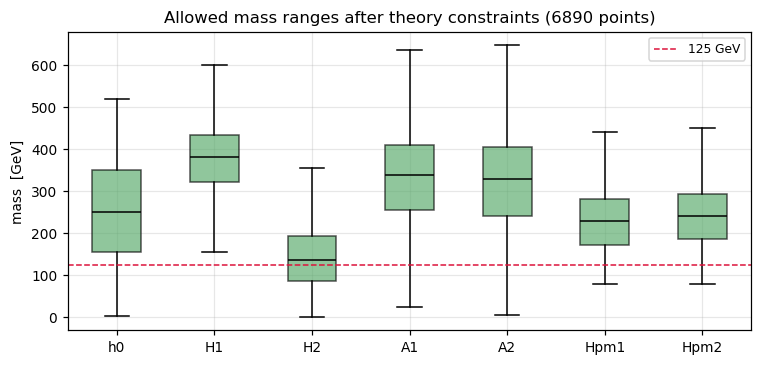
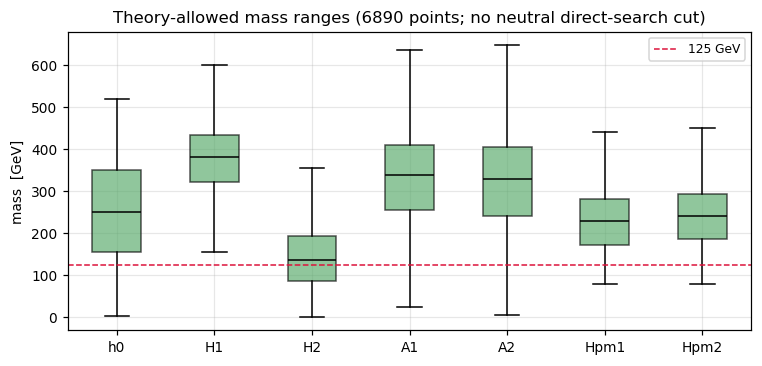
Close four review findings in the scalar-sector notebook
A review of 01_scalar_parameter_space.ipynb. The physics core is sound -- the
alignment, the homogeneity argument, the V4 decomposition and its Z3 covariant,
the typeset-vs-code unitarity eigenvalues, the closed-form BFB condition against
brute force, and the benchmark diagonalizations all reproduce. No number in the
analysis moves. What follows is presentation, provenance, and one missing
bookkeeping row.

1. Light neutral scalars were unconstrained, and the asymmetry ran backwards
   from what the physics allows. The scan cuts charged scalars at 80 GeV and
   applies nothing to the neutral ones, so the theory-allowed set reaches down
   to 1.6 GeV -- with a 39.8 GeV h0 and a 33.3 GeV H2 among the twelve saved
   benchmarks. A light h0 is genuinely safe: it is the geometric-basis state
   D_S[1,1] and notebook 03 proves g(h0 VV) = 0 exactly for any delta, so LEP's
   Z -> Zh search does not reach it. A light H1/H2 is not -- those carry
   cos(delta) and sin(delta) times the SM coupling. So the one state where
   lightness is defensible is protected by a theorem, and the two that need a
   bound get none. Caveated in sections 7 and 8, in the saved JSON description,
   in NOTES.md and in the report's benchmark table; section 7 and its figure are
   retitled "theory-allowed" rather than "allowed".

2. The saved cut_flow omitted its own last step. The 12-dimensional backstop
   removes 3 of 322 points and filters idx, but never reached `cuts`, so
[…]

Changed region(s): [[0.1509, 0.0301, 0.9357, 0.0902]]

diff --git a/research/thdm_s3/report_scalar_sector.tex b/research/thdm_s3/report_scalar_sector.tex
@@ -276,6 +276,7 @@ $+$ tree unitarity              & $103\,465$ & $100.0\%$\\
 $+$ no tachyons                 & $7\,608$   & $7.35\%$\\
 $+$ $m_{H^\pm}>80$~GeV          & $6\,890$   & $90.6\%$\\
 $+$ one CP-even at $125\pm3$~GeV & $322$     & $4.67\%$\\
+$+$ 12-dimensional BFB backstop  & $319$     & $99.1\%$\\
 \bottomrule
 \end{tabular}
 \end{center}
@@ -288,9 +289,12 @@ $+$ one CP-even at $125\pm3$~GeV & $322$     & $4.67\%$\\
 \end{figure}
 
 The line worth noticing is tree unitarity: it removes \textbf{nothing}. In this $\lambda$
-range boundedness is the binding constraint, and unitarity would only bite at
-$|\lambda|\gtrsim$ several --- at our old benchmark the largest eigenvalue was $3.63$
-against the bound $16\pi\approx50.3$. This is worth knowing before spending effort on the
+range boundedness is the binding constraint. That is not because the condition is toothless
+--- it rejects $5\%$ of points at $|\lambda|\le4$ and half of them at $|\lambda|\le6$ ---
+but because $|\lambda|\le2$ sits just inside it: the largest eigenvalue anywhere in the scan
+is $32.5$, or $65\%$ of the $16\pi\approx50.3$ bound. (The much-quoted $3.63$ belongs to the
+old benchmark $\lambda_k=0.05k$, a single point, not to this sample.) The margin is real but
+narrower than that figure suggests, and it is worth knowing before spending effort on the
 unitarity side.
 
 \section{What the viable region looks like}
@@ -299,8 +303,9 @@ unitarity side.
 \begin{figure}[h]
 \centering
 \includegraphics[width=0.80\textwidth]{figures/mass_ranges.png}
-\caption{Allowed mass ranges for the seven physical scalars after all theory and
-phenomenological cuts.}
+\caption{Theory-allowed mass ranges for the seven physical scalars. Charged states carry
+the LEP bound $m_{H^\pm}>80$~GeV; the neutral states carry no direct-search cut (see the
+caveat below).}
 \label{fig:masses}
 \end{figure}
 
@@ -324,7 +329,14 @@ $1.493$ & $123$ & $539$ & $190$ & $435$ & $620$ & $422$ & $556$ \\
 \end{center}
 {\small All masses in GeV. The $125\pm3$~GeV state is whichever CP-even scalar carries it ---
 note it is $h_0$ in none of these, which is a coupling question the gauge sector settles, not
-a mass-ordering one.}
+a mass-ordering one.\par\medskip
+\textbf{Caveat.} The only direct-search bound applied in the scan is $m_{H^\pm}>80$~GeV;
+\emph{no} bound constrains the neutral states, hence the $40$~GeV $h_0$ in the first row.
+That particular entry is defensible --- $h_0$ is the geometric-basis state and
+$g_{h_0VV}=0$ \emph{exactly} for any $\delta$, so LEP's $Z\to Zh$ search does not reach it.
+But $H_1$ and $H_2$ carry $\cos\delta$ and $\sin\delta$ times the SM coupling, so a light one
+of those would need small mixing, which the scalar-sector notebook has no gauge couplings to
+test. Re-cutting the scan with the couplings now available is the natural follow-up.}
 
 \begin{figure}[h]
 \centering

diff --git a/research/thdm_s3/extract_figures.py b/research/thdm_s3/extract_figures.py
@@ -25,7 +25,7 @@ OUTDIR = HERE / "figures"
 FIGURES = {
     "bfb_ft_curve": (59, "Eq. (4g) checks one point of a curve"),
     "cut_flow": (72, "Cut flow: S$_3$-3HDM scalar parameter space"),
-    "mass_ranges": (76, "Allowed mass ranges after theory constraints"),
+    "mass_ranges": (76, "Theory-allowed mass ranges"),
     "correlations": (77, "lightest CP-even scalar"),
 }
 

diff --git a/research/thdm_s3/NOTES.md b/research/thdm_s3/NOTES.md
@@ -394,6 +394,16 @@ than merely incomplete), and the spin-0 form factor `A_zero` plus a general
   factor, the analogue of what `A_zero` did for $\gamma\gamma$. Untouched.
 - The LFV rates depend on $\mu_3^\ell$, the one dial the lepton mass relations
   leave free; notebook 03 scans it rather than fixing it from anything.
+- **A neutral direct-search bound is missing from the scalar scan.** Notebook 01
+  applies $m_{H^\pm}>80$ GeV to the charged states and nothing to the neutral
+  ones, so its theory-allowed set contains CP-even scalars down to a couple of
+  GeV — including a 39.8 GeV $h_0$ and a 33.3 GeV $H_2$ among the twelve saved
+  benchmarks. A light $h_0$ is genuinely safe: it is the geometric-basis state
+  and $g_{h_0VV}=0$ *exactly* for any δ (finding 10), so LEP's $Z\to Zh$ search
+  does not reach it. A light $H_1$/$H_2$ is not — they carry $\cos\delta$ and
+  $\sin\delta$ times the SM coupling. Notebook 03 now supplies those couplings,
+  so re-cutting the scan with a coupling-aware neutral bound is the most valuable
+  follow-up to notebook 01.
 - The scan samples λ uniformly, which is inefficient given the shape of the
   viable region. A targeted sampler would resolve its boundary far better.
 
